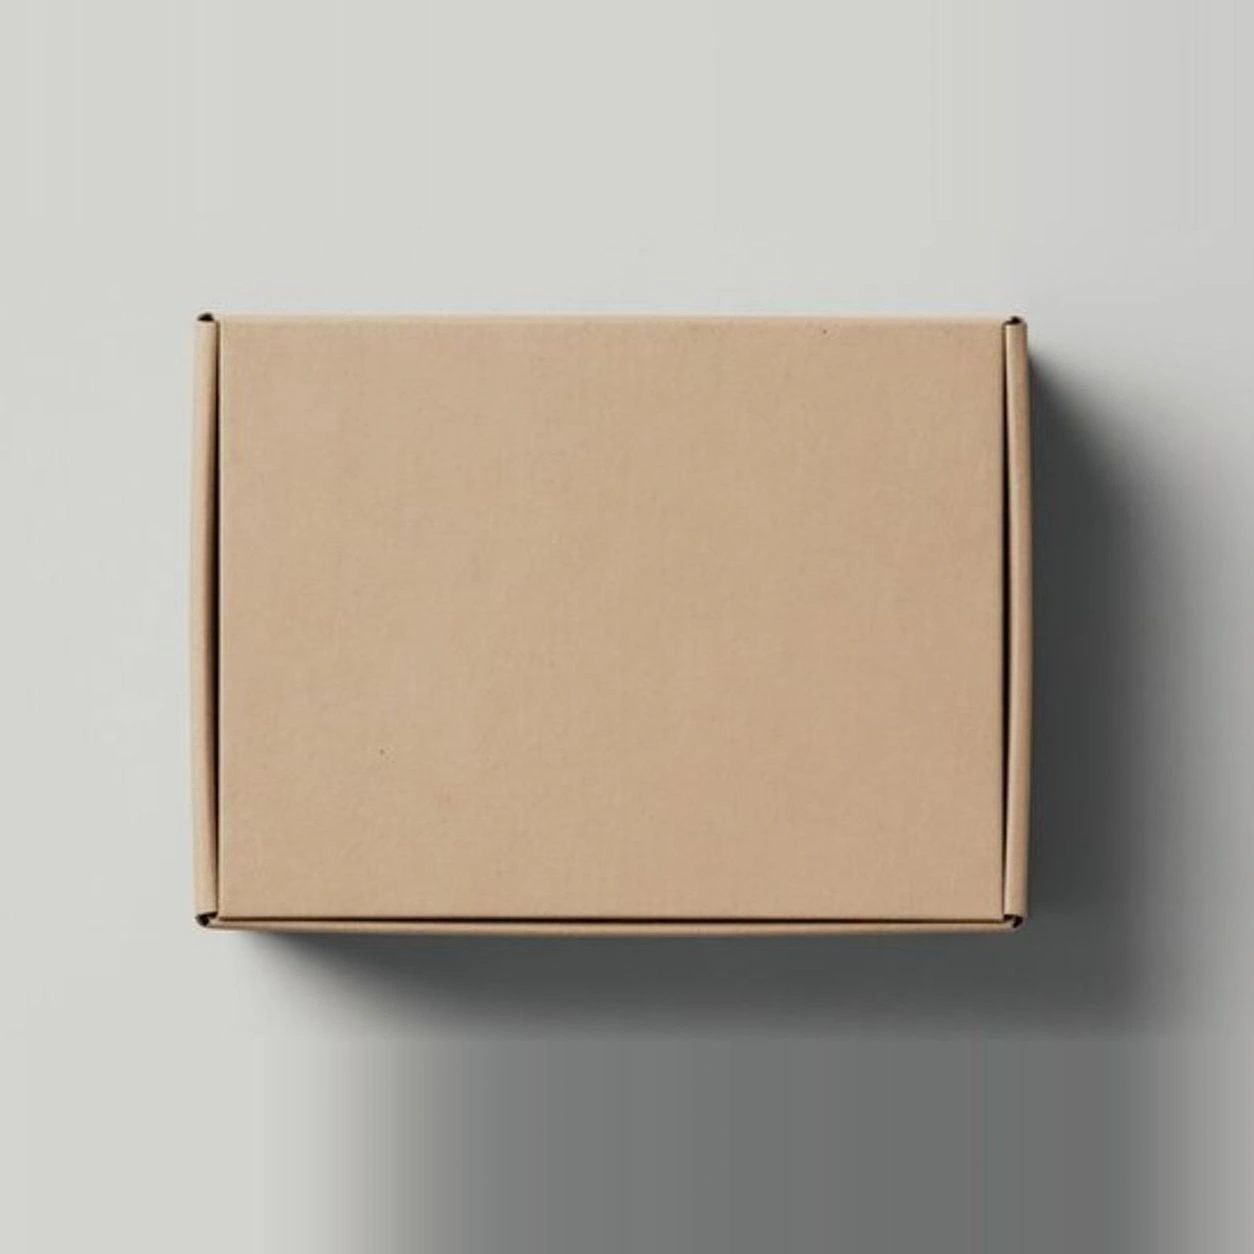
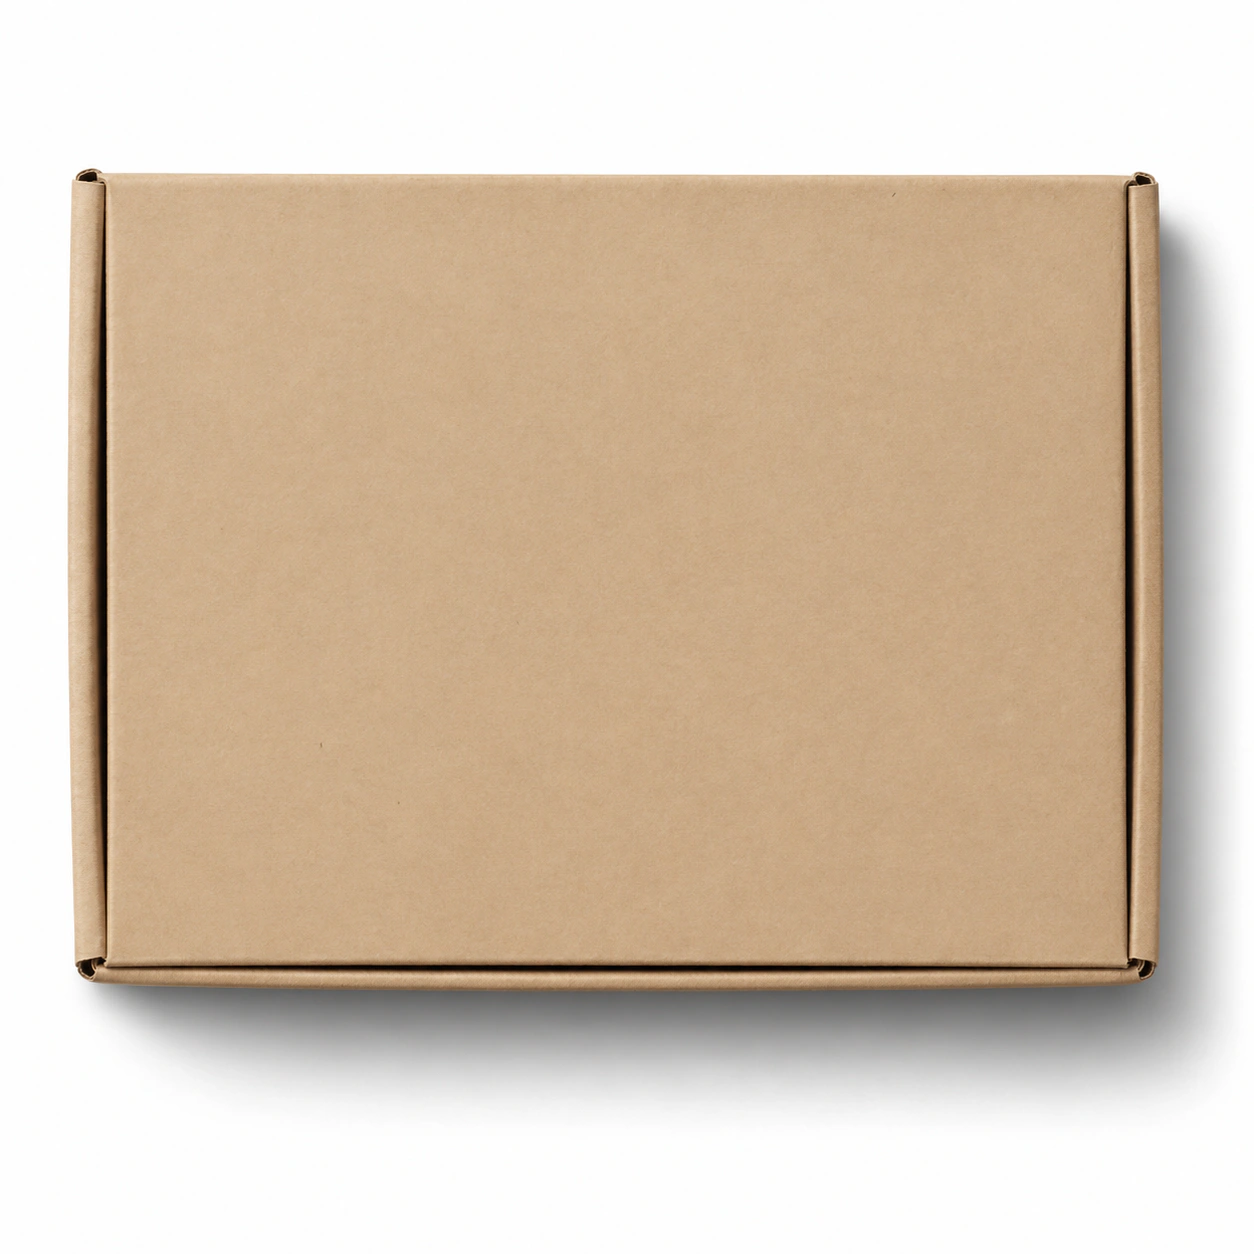
Polish custom stamp preview options

diff --git a/hfq8rc-8w line art/extensions/stamp-upload/assets/stamp-upload-core.js b/hfq8rc-8w line art/extensions/stamp-upload/assets/stamp-upload-core.js
@@ -25,7 +25,7 @@
     "properties[Printmivo line art]",
     "properties[StampMyMark line art]"
   ];
-  const instantMockupAssetVersion = "4";
+  const instantMockupAssetVersion = "5";
   const instantCanvasSize = 640;
   const instantArtworkSize = 512;
   const instantArtworkContentSize = Math.round((752 / 768) * instantArtworkSize);
@@ -51,12 +51,12 @@
       regular: {
         bag: [[385, 550], [869, 550], [869, 1034], [385, 1034]],
         cup: [[390, 540], [864, 540], [864, 1014], [390, 1014]],
-        box: [[420, 410], [834, 410], [834, 824], [420, 824]]
+        box: [[420, 365], [834, 365], [834, 779], [420, 779]]
       },
       white: {
         bag: [[385, 550], [869, 550], [869, 1034], [385, 1034]],
         cup: [[390, 540], [864, 540], [864, 1014], [390, 1014]],
-        box: [[420, 410], [834, 410], [834, 824], [420, 824]]
+        box: [[420, 365], [834, 365], [834, 779], [420, 779]]
       }
     }
   };

diff --git a/line art/extensions/stamp-upload/assets/stamp-upload-core.js b/line art/extensions/stamp-upload/assets/stamp-upload-core.js
@@ -25,7 +25,7 @@
     "properties[Printmivo line art]",
     "properties[StampMyMark line art]"
   ];
-  const instantMockupAssetVersion = "4";
+  const instantMockupAssetVersion = "5";
   const instantCanvasSize = 640;
   const instantArtworkSize = 512;
   const instantArtworkContentSize = Math.round((752 / 768) * instantArtworkSize);
@@ -51,12 +51,12 @@
       regular: {
         bag: [[385, 550], [869, 550], [869, 1034], [385, 1034]],
         cup: [[390, 540], [864, 540], [864, 1014], [390, 1014]],
-        box: [[420, 410], [834, 410], [834, 824], [420, 824]]
+        box: [[420, 365], [834, 365], [834, 779], [420, 779]]
       },
       white: {
         bag: [[385, 550], [869, 550], [869, 1034], [385, 1034]],
         cup: [[390, 540], [864, 540], [864, 1014], [390, 1014]],
-        box: [[420, 410], [834, 410], [834, 824], [420, 824]]
+        box: [[420, 365], [834, 365], [834, 779], [420, 779]]
       }
     }
   };

diff --git a/hfq8rc-8w line art/app/lib/stamp-previews.server.ts b/hfq8rc-8w line art/app/lib/stamp-previews.server.ts
@@ -23,7 +23,7 @@ export type { StampPreviewKind, StampPreviewProfile };
 
 const stampPreviewRenderer = (profile: StampPreviewProfile) =>
   profile === "custom"
-    ? "deterministic-v21-lower-kraft-bag-placement"
+    ? "deterministic-v22-white-zoomed-custom-box"
     : "deterministic-v19-product-profile-permanent";
 const stampPreviewJobs = new Map<string, Promise<void>>();
 

diff --git a/line art/app/lib/stamp-previews.server.ts b/line art/app/lib/stamp-previews.server.ts
@@ -23,7 +23,7 @@ export type { StampPreviewKind, StampPreviewProfile };
 
 const stampPreviewRenderer = (profile: StampPreviewProfile) =>
   profile === "custom"
-    ? "deterministic-v21-lower-kraft-bag-placement"
+    ? "deterministic-v22-white-zoomed-custom-box"
     : "deterministic-v19-product-profile-permanent";
 const stampPreviewJobs = new Map<string, Promise<void>>();
 

diff --git a/hfq8rc-8w line art/app/lib/stamp-preview-profiles.ts b/hfq8rc-8w line art/app/lib/stamp-preview-profiles.ts
@@ -79,10 +79,10 @@ const customPlacementQuads: Record<StampPreviewKind, StampPreviewQuad> = {
     { x: 390, y: 1014 }
   ],
   box: [
-    { x: 420, y: 410 },
-    { x: 834, y: 410 },
-    { x: 834, y: 824 },
-    { x: 420, y: 824 }
+    { x: 420, y: 365 },
+    { x: 834, y: 365 },
+    { x: 834, y: 779 },
+    { x: 420, y: 779 }
   ]
 };
 

diff --git a/line art/app/lib/stamp-preview-profiles.ts b/line art/app/lib/stamp-preview-profiles.ts
@@ -79,10 +79,10 @@ const customPlacementQuads: Record<StampPreviewKind, StampPreviewQuad> = {
     { x: 390, y: 1014 }
   ],
   box: [
-    { x: 420, y: 410 },
-    { x: 834, y: 410 },
-    { x: 834, y: 824 },
-    { x: 420, y: 824 }
+    { x: 420, y: 365 },
+    { x: 834, y: 365 },
+    { x: 834, y: 779 },
+    { x: 420, y: 779 }
   ]
 };
 
